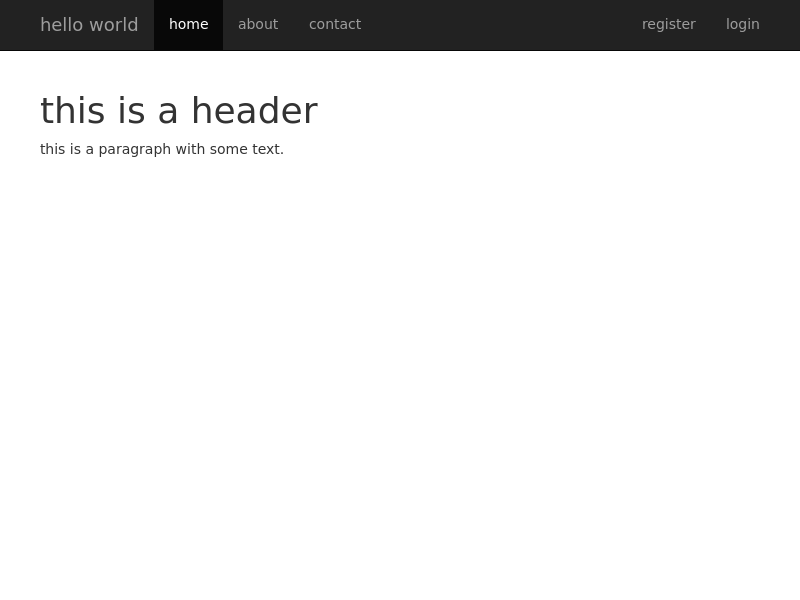
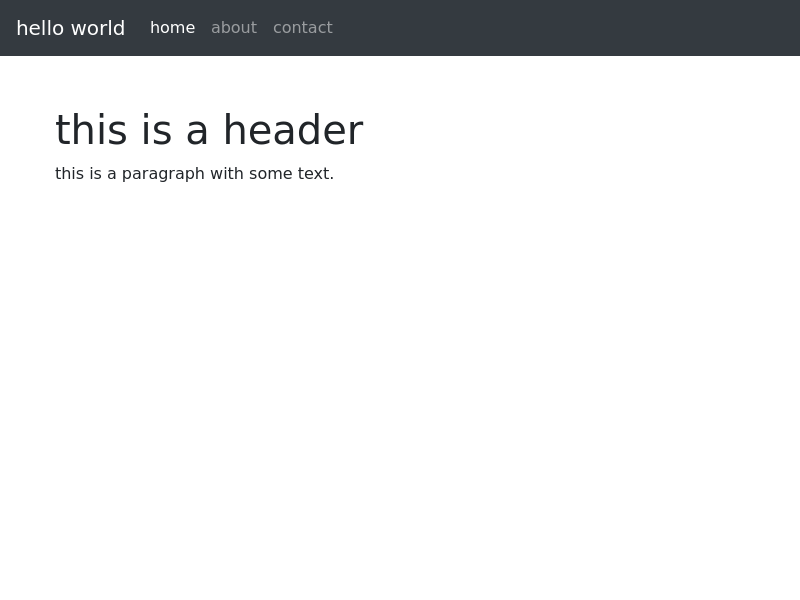
no message

Changed region(s): [[0.0, 0.0, 1.0, 0.12], [0.0312, 0.15, 0.4688, 0.3]]

diff --git a/bootstrap/7-combined.html b/bootstrap/7-combined.html
@@ -7,8 +7,14 @@
 
 		<script type="text/javascript" src="https://cdnjs.cloudflare.com/ajax/libs/jquery/3.2.1/jquery.min.js"></script>
 
-		<link rel="stylesheet" type="text/css" href="https://cdnjs.cloudflare.com/ajax/libs/twitter-bootstrap/3.3.7/css/bootstrap.min.css" />
-		<script type="text/javascript" src="https://cdnjs.cloudflare.com/ajax/libs/twitter-bootstrap/3.3.7/js/bootstrap.min.js"></script>
+		<link rel="stylesheet" type="text/css" href="https://cdnjs.cloudflare.com/ajax/libs/twitter-bootstrap/4.0.0/css/bootstrap.min.css" />
+		<script type="text/javascript" src="https://cdnjs.cloudflare.com/ajax/libs/twitter-bootstrap/4.0.0/js/bootstrap.min.js"></script>
+
+		<style type="text/css">
+			.navbar {
+				margin-bottom:30px;
+			}
+		</style>
 	</head>
 	<body>
 		<!-- this exercise looks like more work than it actually is, since you can copy and paste a majority of it. you might ask yourself in this regard why there is a gap between the navbar and the jumbotron. this is because the navbar is set to static and not to fixed. -->

diff --git a/bootstrap/6-icon.html b/bootstrap/6-icon.html
@@ -7,12 +7,18 @@
 
 		<script type="text/javascript" src="https://cdnjs.cloudflare.com/ajax/libs/jquery/3.2.1/jquery.min.js"></script>
 
-		<link rel="stylesheet" type="text/css" href="https://cdnjs.cloudflare.com/ajax/libs/twitter-bootstrap/3.3.7/css/bootstrap.min.css" />
-		<script type="text/javascript" src="https://cdnjs.cloudflare.com/ajax/libs/twitter-bootstrap/3.3.7/js/bootstrap.min.js"></script>
+		<link rel="stylesheet" type="text/css" href="https://cdnjs.cloudflare.com/ajax/libs/twitter-bootstrap/4.0.0/css/bootstrap.min.css" />
+		<script type="text/javascript" src="https://cdnjs.cloudflare.com/ajax/libs/twitter-bootstrap/4.0.0/js/bootstrap.min.js"></script>
+
+		<link rel="stylesheet" type="text/css" href="https://cdnjs.cloudflare.com/ajax/libs/font-awesome/4.7.0/css/font-awesome.min.css" />
 
 		<style type="text/css">
 			body {
 				padding-top:20px;
+			}
+
+			.form-control {
+				width:auto !important; /* the grading server does not support flexbox */
 			}
 		</style>
 	</head>

diff --git a/bootstrap/3-form.html b/bootstrap/3-form.html
@@ -7,12 +7,25 @@
 
 		<script type="text/javascript" src="https://cdnjs.cloudflare.com/ajax/libs/jquery/3.2.1/jquery.min.js"></script>
 
-		<link rel="stylesheet" type="text/css" href="https://cdnjs.cloudflare.com/ajax/libs/twitter-bootstrap/3.3.7/css/bootstrap.min.css" />
-		<script type="text/javascript" src="https://cdnjs.cloudflare.com/ajax/libs/twitter-bootstrap/3.3.7/js/bootstrap.min.js"></script>
+		<link rel="stylesheet" type="text/css" href="https://cdnjs.cloudflare.com/ajax/libs/twitter-bootstrap/4.0.0/css/bootstrap.min.css" />
+		<script type="text/javascript" src="https://cdnjs.cloudflare.com/ajax/libs/twitter-bootstrap/4.0.0/js/bootstrap.min.js"></script>
 
 		<style type="text/css">
 			body {
 				padding-top:20px;
+			}
+
+			.col-form-label {
+				font-weight:bold;
+				text-align:right;
+			}
+
+			.form-check-input {
+				margin-top:9px;
+			}
+
+			.form-check-label {
+				line-height:1.75;
 			}
 		</style>
 	</head>

diff --git a/bootstrap/2-grid.html b/bootstrap/2-grid.html
@@ -7,8 +7,8 @@
 
 		<script type="text/javascript" src="https://cdnjs.cloudflare.com/ajax/libs/jquery/3.2.1/jquery.min.js"></script>
 
-		<link rel="stylesheet" type="text/css" href="https://cdnjs.cloudflare.com/ajax/libs/twitter-bootstrap/3.3.7/css/bootstrap.min.css" />
-		<script type="text/javascript" src="https://cdnjs.cloudflare.com/ajax/libs/twitter-bootstrap/3.3.7/js/bootstrap.min.js"></script>
+		<link rel="stylesheet" type="text/css" href="https://cdnjs.cloudflare.com/ajax/libs/twitter-bootstrap/4.0.0/css/bootstrap.min.css" />
+		<script type="text/javascript" src="https://cdnjs.cloudflare.com/ajax/libs/twitter-bootstrap/4.0.0/js/bootstrap.min.js"></script>
 
 		<script type="text/javascript">
 			// this code is responsible for setting the background-color of each grid cell - you do thus not need to set the expected background-color manually

diff --git a/ajax/1-lorem.html b/ajax/1-lorem.html
@@ -15,7 +15,7 @@
 		<pre id="output">output</pre>
 		
 		<script type="text/javascript">
-			// when somebody enters 'the input text' into the input textbox and clicks the submit button, the script should make a get request to: http://mercury.cs.pdx.edu/exercise/ajax/lorem.txt?strInput=the%20input%20text
+			// when somebody enters 'the input text' into the input textbox and clicks the submit button, the script should make a get request to: http://mercury.cs.pdx.edu/playground/ajax/lorem.txt?strInput=the%20input%20text
 			// the data that is being received by this query is in the text format and might look like: 'received:the input text\ncalculated:eH2wO8kG'
 			// this received data should subsequently set as the content of the output element as follows: 'received:the input text\ncalculated:eH2wO8kG'
 		</script>

diff --git a/bootstrap/1-navbar.html b/bootstrap/1-navbar.html
@@ -7,8 +7,14 @@
 
 		<script type="text/javascript" src="https://cdnjs.cloudflare.com/ajax/libs/jquery/3.2.1/jquery.min.js"></script>
 
-		<link rel="stylesheet" type="text/css" href="https://cdnjs.cloudflare.com/ajax/libs/twitter-bootstrap/3.3.7/css/bootstrap.min.css" />
-		<script type="text/javascript" src="https://cdnjs.cloudflare.com/ajax/libs/twitter-bootstrap/3.3.7/js/bootstrap.min.js"></script>
+		<link rel="stylesheet" type="text/css" href="https://cdnjs.cloudflare.com/ajax/libs/twitter-bootstrap/4.0.0/css/bootstrap.min.css" />
+		<script type="text/javascript" src="https://cdnjs.cloudflare.com/ajax/libs/twitter-bootstrap/4.0.0/js/bootstrap.min.js"></script>
+
+		<style type="text/css">
+			.navbar {
+				margin-bottom:50px;
+			}
+		</style>
 	</head>
 	<body>
 		

diff --git a/ajax/3-lookup.html b/ajax/3-lookup.html
@@ -43,7 +43,7 @@
 		</table>
 
 		<script type="text/javascript">
-			// when somebody selects an option in the choice selection element, the script should make a get request to: http://mercury.cs.pdx.edu/exercise/ajax/lookup.json?strName=max
+			// when somebody selects an option in the choice selection element, the script should make a get request to: http://mercury.cs.pdx.edu/playground/ajax/lookup.json?strName=max
 			// the data that is being received by this query is in the json format and might look like: { 'strFirst':'max','strLast':'baum','strGender':'male','strRandom':'3BLJEkKk' }
 			// this received data should subsequently be used to set the first textbox, the last textbox, the gender radio button as well as the random textbox
 		</script>

diff --git a/bootstrap/4-card.html b/bootstrap/4-card.html
@@ -7,8 +7,8 @@
 
 		<script type="text/javascript" src="https://cdnjs.cloudflare.com/ajax/libs/jquery/3.2.1/jquery.min.js"></script>
 
-		<link rel="stylesheet" type="text/css" href="https://cdnjs.cloudflare.com/ajax/libs/twitter-bootstrap/3.3.7/css/bootstrap.min.css" />
-		<script type="text/javascript" src="https://cdnjs.cloudflare.com/ajax/libs/twitter-bootstrap/3.3.7/js/bootstrap.min.js"></script>
+		<link rel="stylesheet" type="text/css" href="https://cdnjs.cloudflare.com/ajax/libs/twitter-bootstrap/4.0.0/css/bootstrap.min.css" />
+		<script type="text/javascript" src="https://cdnjs.cloudflare.com/ajax/libs/twitter-bootstrap/4.0.0/js/bootstrap.min.js"></script>
 
 		<style type="text/css">
 			body {

diff --git a/bootstrap/5-table.html b/bootstrap/5-table.html
@@ -7,8 +7,8 @@
 
 		<script type="text/javascript" src="https://cdnjs.cloudflare.com/ajax/libs/jquery/3.2.1/jquery.min.js"></script>
 
-		<link rel="stylesheet" type="text/css" href="https://cdnjs.cloudflare.com/ajax/libs/twitter-bootstrap/3.3.7/css/bootstrap.min.css" />
-		<script type="text/javascript" src="https://cdnjs.cloudflare.com/ajax/libs/twitter-bootstrap/3.3.7/js/bootstrap.min.js"></script>
+		<link rel="stylesheet" type="text/css" href="https://cdnjs.cloudflare.com/ajax/libs/twitter-bootstrap/4.0.0/css/bootstrap.min.css" />
+		<script type="text/javascript" src="https://cdnjs.cloudflare.com/ajax/libs/twitter-bootstrap/4.0.0/js/bootstrap.min.js"></script>
 
 		<style type="text/css">
 			body {

diff --git a/ajax/2-suggest.html b/ajax/2-suggest.html
@@ -13,7 +13,7 @@
 		<pre id="output">output</pre>
 		
 		<script type="text/javascript">
-			// when somebody enters 'b' into the input textbox, the script should make a get request to: http://mercury.cs.pdx.edu/exercise/ajax/suggest.json?strFile=b
+			// when somebody enters 'b' into the input textbox, the script should make a get request to: http://mercury.cs.pdx.edu/playground/ajax/suggest.json?strFile=b
 			// the data that is being received by this query is in the json format and might look like: { 'strFiles':['bash','bunzip2','busybox'] }
 			// this received data should subsequently set as the content of the output element as follows: 'bash\nbunzip2\nbusybox'
 		</script>

diff --git a/README.md b/README.md
@@ -78,11 +78,11 @@ Additionally, make sure to read the following hints that are there to guide you 
 ## `javascript/8-tools` / `javascript/9-debug`
 For these two, the actual exercises are stored on the grading server. They contain flags / values that are individual to each student and that you are asked to find. For the first one, navigate to the following link and use the developer tools to find them. You can find hints on where to find them in the corresponding text file.
 
-* http://mercury.cs.pdx.edu/exercise/javascript/tools.html
+* http://mercury.cs.pdx.edu/playground/javascript/tools.html
 
 For the second one, navigate to the following link and use the JavaScript debugger of the developer tools. You will have to set a breakpoint in order to inspect the contents of a variable that contains the flag. Furthermore, you will additionally have to set an earlier breakpoint and modify the content of this variable.
 
-* http://mercury.cs.pdx.edu/exercise/javascript/debug.html
+* http://mercury.cs.pdx.edu/playground/javascript/debug.html
 
 ## `jquery/*`
 The exercises in this category already come with some scaffolding and provide inline instructions. You might find the following resources helpful to accomplish the given tasks.
@@ -110,16 +110,15 @@ Courtesy to [CDNJS](https://cdnjs.com/), Moment.js in version 2.18.1 is already 
 ## `bootstrap/*`
 These exercises are similar to the exercises in the `html` category. You are likewise asked to visually reproduce the given images. Make sure to consult the documentation thoroughly.
 
-* http://getbootstrap.com/getting-started/#examples
-* http://getbootstrap.com/css/#overview-container
-* http://getbootstrap.com/css/#grid
-* http://getbootstrap.com/css/#forms
-* http://getbootstrap.com/css/#tables
-* http://getbootstrap.com/components/#navbar
-* http://getbootstrap.com/components/#panels
-* http://getbootstrap.com/components/#glyphicons
+* https://getbootstrap.com/docs/4.0/examples/
+* https://getbootstrap.com/docs/4.0/layout/overview/
+* https://getbootstrap.com/docs/4.0/layout/grid/
+* https://getbootstrap.com/docs/4.0/content/tables/
+* https://getbootstrap.com/docs/4.0/components/navbar/
+* https://getbootstrap.com/docs/4.0/components/forms/
+* https://fontawesome.com/v4.7.0/
 
-Courtesy to [CDNJS](https://cdnjs.com/), Bootstrap in version 3.3.7 is already included as an external resource. Feel free to copy large parts of the documentation, especially for the `7-combined` exercise.
+Courtesy to [CDNJS](https://cdnjs.com/), Bootstrap in version 4.0.0 is already included as an external resource. Feel free to copy large parts of the documentation, especially for the `7-combined` exercise.
 
 ## `node/*`
 Each exercise in this category consists of writing a webserver that listens on port `process.env.PORT || 8080`, allowing the grading server to specify a custom `process.env.PORT` while you can simply use port `8080` during development. 
@@ -183,15 +182,15 @@ In the `2-draggable` exercise, you can make use of the code that implemented the
 ## `security/*`
 The exercises in this category are similar to the last two exercises in the `javascript` category. They likewise ask you to visit a website on the grading server in order to obtain a flag. For the first one, navigate to the following link and determine the password of the hash that you are given there.
 
-* http://mercury.cs.pdx.edu/exercise/security/hash.html
+* http://mercury.cs.pdx.edu/playground/security/hash.html
 
 For the second one, navigate to the following link and perform a SQL injection to obtain the flag. You will have to list the tables that are available within the database and fetch the tuples from a particular one of them that contains the flag.
 
-* http://mercury.cs.pdx.edu/exercise/security/injection.html
+* http://mercury.cs.pdx.edu/playground/security/injection.html
 
 The last one asks you to perform a cross-site scripting attack. Navigate to the following link and inject a script that reads the cookies and forwards them as specified in the instructions. The response from this forwarded request will contain the flag.
 
-* http://mercury.cs.pdx.edu/exercise/security/scripting.html
+* http://mercury.cs.pdx.edu/playground/security/scripting.html
 
 ## linux lab
 When connecting remotely into the Linux lab, please choose one of the machines in the [first](https://cat.pdx.edu/labstatus/labs/cslinlaba/) or the [second](https://cat.pdx.edu/labstatus/labs/cslinlabb/) lab. After selecting a machine, you can use your credentials to establish a connection through ssh. Note that you can alternatively use PuTTY as well.
